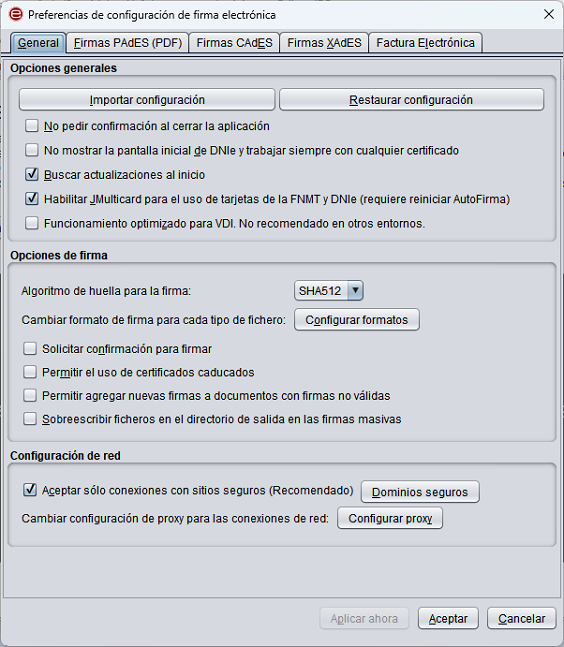
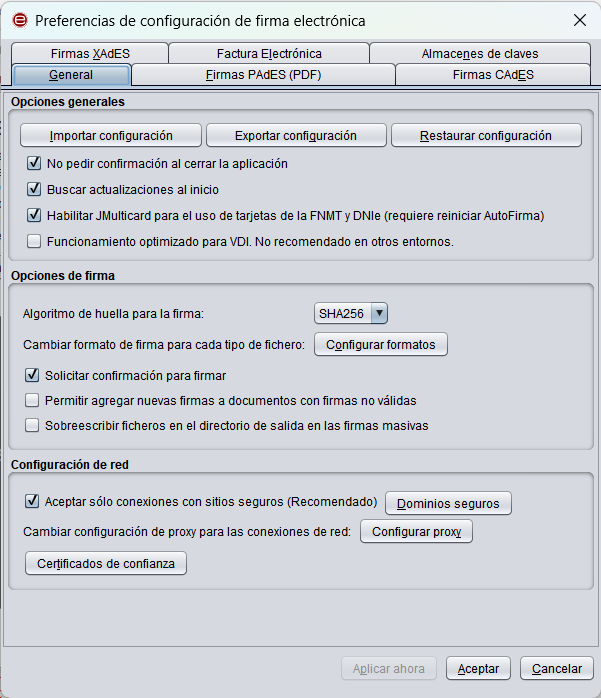
Ayuda integrada sobre el funcional 3 (Mejora en la gestión de confianza SSL).

Changed region(s): [[0.0, 0.0, 1.0, 1.0]]

diff --git a/afirma-simple/src/main/resources/help/Spanish.lproj/pgs/VentanaCertificadosConfianza.html b/afirma-simple/src/main/resources/help/Spanish.lproj/pgs/VentanaCertificadosConfianza.html
@@ -1,0 +1,43 @@
+<!DOCTYPE html>
+<html>
+ <head>
+  <title>Certificados de confianza</title>
+  <meta http-equiv="Content-type" content="text/html;charset=UTF-8">
+  <meta name="KEYWORDS" content="preferencias, configurar, certificados, confianza">
+  <meta name="description" content="Men&uacute; preferencias.">
+ </head>
+ <body> 
+  <h2>Certificados de confianza</h2>
+  <p>
+    AutoFirma realiza conexiones hacia servidores remotos para diversas funciones. En este apartado, se permite importar al almac&eacute;n de confianza de AutoFirma los certificados de los servidores a los que se que conecte AutoFirma para que sean reconocidos como de confianza.
+  </p>
+  <p align="center">
+  	<img src="../gfx/menulistacertificadosconfianza.png" alt="Pantalla con los certificados importados en el almac&eacute;n de confianza">
+  </p>
+  Las opciones en esta pantalla son:
+  </p>
+  <ul>
+  	 <li><b>Importar:</b> Al seleccionar esta opci&oacute;n, se abrir&aacute; un di&aacute;logo donde se permite importar un certificado seleccionando el archivo desde una ruta local o desde una URL. En caso de que se importe localmente, se permite la selecci&oacute;n de uno o varios archivos y en caso de una importaci&oacute;n mediante URL, se importar&aacute;n el emisor y sus certificados superiores de la cadena de certificaci&oacute;n.
+	 <p align="center">
+		<img src="../gfx/dialogoimportarcertificados.png" alt="Pantalla para importar certificados">
+	 </p>
+	 <p>Una vez que se hayan obtenido los certificados, aparecer&aacute; la siguiente pantalla con los certificados que se hayan cargado.</p>
+	 <p align="center">
+		<img src="../gfx/dialogocertificadoscargados.png" alt="Pantalla para importar certificados">
+	 </p>
+	 <p>Las opciones en esta ventana son:
+	 <ul>
+		<li><b>Ver certificado:</b> Abre una ventana con la informaci&oacute;n del certificado que se haya seleccionado en la lista.</li>
+		<li><b>Omitir:</b> Descarta el certificado que se haya seleccionado en la lista para que no sea importado.</li>
+		<li><b>Importar certificados:</b> Importa los certificados indicados en la lista al almac&eacute;n de confianza de AutoFirma.</li>
+		<li><b>Cerrar:</b> Cierra la ventana.</li>
+	 </ul>
+	 </li>
+	 </p>
+     <li><b>Ver certificado:</b> Abrir&aacute; una ventana con la informaci&oacute;n del certificado que se haya seleccionado en la lista.</li>
+	 <li><b>Eliminar:</b> Permite eliminar del almac&eacute;n de confianza de AutoFirma el certificado seleccionado.</li>
+  </ul>
+  <p>Si se pulsa el bot&oacute;n <b>Aceptar</b>, se cerrar&aacute; la ventana.</p>
+  <p>
+ </body>
+</html>

diff --git a/afirma-simple/src/main/resources/help/Spanish.lproj/pgs/MenuPreferencias.html b/afirma-simple/src/main/resources/help/Spanish.lproj/pgs/MenuPreferencias.html
@@ -78,6 +78,9 @@
      <li><b>Configurar proxy:</b> Opci&oacute;n para configurar el proxy para todas las conexiones de red de
      AutoFirma. Para saber m&aacute;s, consulte la p&aacute;gina <a href="VentanaConfigurarProxy.html">Configuraci&oacute;n del proxy de red</a>.</li>
     </ul>
+	<ul>
+     <li><b>Certificados de confianza:</b> Opci&oacute;n para configurar certificados de confianza en conexiones de red. Para saber m&aacute;s, consulte la p&aacute;gina <a href="VentanaCertificadosConfianza.html">Certificados de confianza</a>.</li>
+    </ul>
    </li>
   </ul>
   <h3>Men&uacute; "Firmas PAdES (PDF)"</h3>
